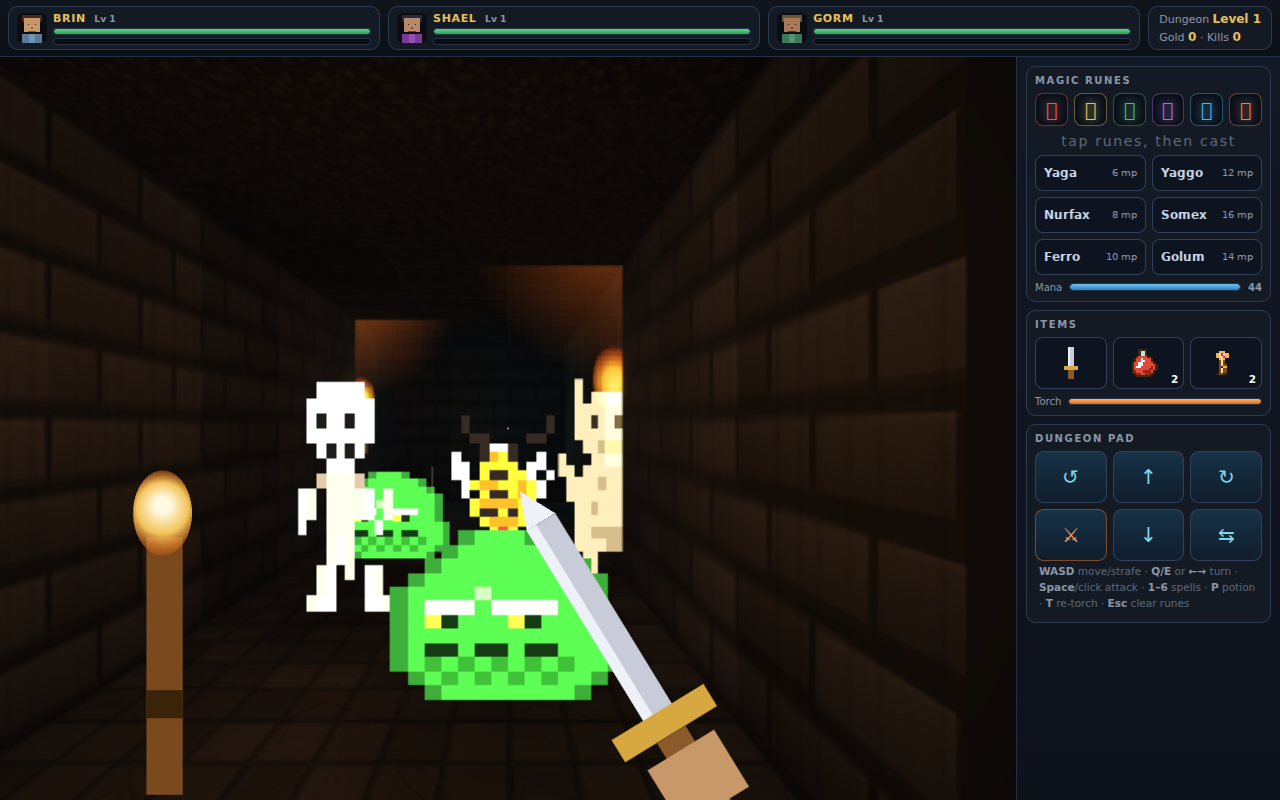
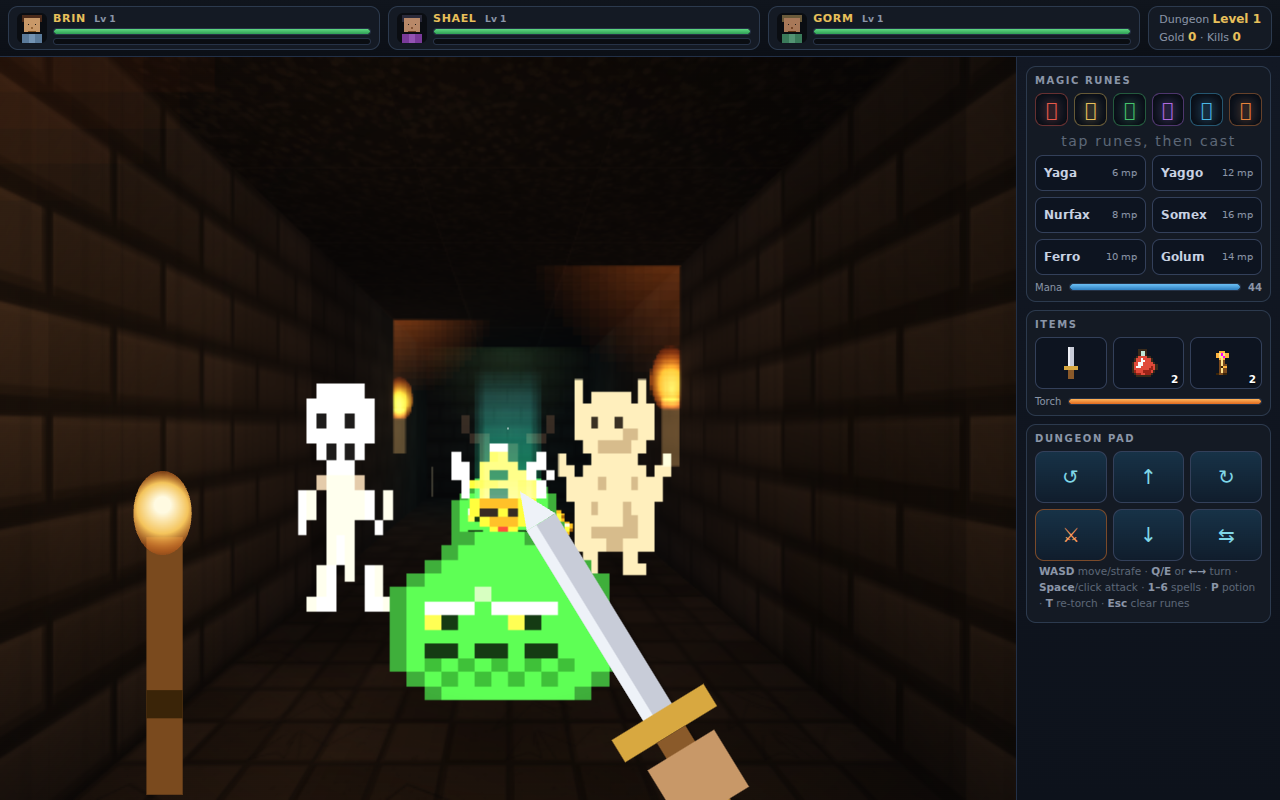
dungeonmaster: unify coordinate conventions — cells span [x-.5,x+.5] so entities, LOS, projectiles, gate and staged monsters now sit at cell centers (camera was half a cell off, clipping walls in 1-wide corridors); regenerated thumbnail

diff --git a/examples/dungeonmaster/index.html b/examples/dungeonmaster/index.html
@@ -752,7 +752,8 @@ function genLevel(d) {
   rooms.forEach((r, i) => { const dd = dist[cellIdx(r.cx, r.cy)]; if (dd > far) { far = dd; fi = i; } });
   stairsCell = cellIdx(rooms[fi].cx, rooms[fi].cy);
   grid[stairsCell] = STAIR;
-  /* torches on wall faces, spread out */
+  /* torches on wall faces, spread out — cell (x,y) spans [x-.5,x+.5], so the face
+     toward neighbour (x+dx,y+dy) sits at x+dx*.5 */
   torchers = [];
   const faces = [];
   for (let y = 1; y < GH - 1; y++) for (let x = 1; x < GW - 1; x++) {
@@ -1002,7 +1003,7 @@ function spawnMonsters(d) {
 function addMonster(kind, x, y, d) {
   const t = MON[kind], hpMul = 1 + .2 * (d - 1), dAdd = Math.floor(d / 2);
   const m = {
-    kind, t, x, y, mx: x + .5, my: y + .5, hp: Math.round(t.hp * hpMul), mhp: Math.round(t.hp * hpMul),
+    kind, t, x, y, mx: x, my: y, hp: Math.round(t.hp * hpMul), mhp: Math.round(t.hp * hpMul),
     spd: t.spd, at: 1 / t.spd + R(0, .5), mvp: null, alerted: false, flash: 0, frozen: 0, dying: false,
     hold: false, holdAt: 0,
     dmg: [t.dmg[0] + dAdd, t.dmg[1] + dAdd], xp: t.xp, bob: rnd() * 7,
@@ -1011,12 +1012,12 @@ function addMonster(kind, x, y, d) {
   return m;
 }
 
-/* LOS between float points */
+  /* LOS between float points; cells span [x-.5,x+.5] => nearest int is the cell */
 function los(x0, y0, x1, y1) {
   const dx = x1 - x0, dy = y1 - y0, n = Math.ceil(Math.hypot(dx, dy) * 4);
   for (let i = 1; i < n; i++) {
     const x = x0 + dx * i / n, y = y0 + dy * i / n;
-    if (at(Math.floor(x), Math.floor(y)) === WALL) return false;
+    if (at(Math.round(x), Math.round(y)) === WALL) return false;
   }
   return true;
 }
@@ -1377,7 +1378,7 @@ function newLevel(d) {
   spawnMonsters(d);
   projs = []; pickups = [];
   player.cellX = startCell % GW; player.cellY = (startCell / GW) | 0;
-  player.x = player.cellX + .5; player.y = player.cellY + .5;
+  player.x = player.cellX; player.y = player.cellY;
   /* face along a corridor */
   for (const [dx, dy] of [[1,0],[0,1],[-1,0],[0,-1]]) if (walkable(player.cellX + dx, player.cellY + dy)) { player.yaw = player.yawT = Math.atan2(dx, dy); break; }
   player.mv = null; player.turn = null;
@@ -1406,7 +1407,7 @@ function render(now) {
   /* gate light */
   if (tSorted.length < 9) {
     const i = tSorted.length;
-    lp[i * 3] = stairsCell % GW + .5; lp[i * 3 + 1] = 1.2; lp[i * 3 + 2] = ((stairsCell / GW) | 0) + .5;
+    lp[i * 3] = stairsCell % GW; lp[i * 3 + 1] = 1.2; lp[i * 3 + 2] = ((stairsCell / GW) | 0);
     lc[i * 4] = .35; lc[i * 4 + 1] = .85; lc[i * 4 + 2] = .8; lc[i * 4 + 3] = 5.2;
     tSorted.push({ t: { x: -9, y: -9, ph: 3 }, d: 0, gate: true });
     tSorted[i].gate = true;
@@ -1480,7 +1481,7 @@ function render(now) {
     drawSprite(pSpr, uS, t.hx, .95, t.hy, .16, .6, 'white', 0, .9, true);
   }
   {
-    const gx = stairsCell % GW + .5, gy2 = ((stairsCell / GW) | 0) + .5;
+    const gx = stairsCell % GW, gy2 = ((stairsCell / GW) | 0);
     const gd = Math.hypot(gx - player.x, gy2 - player.y);
     if (gd < 14) {
       const pulse = .7 + .3 * Math.sin(TIME * 2.2);
@@ -1677,11 +1678,11 @@ function update(dt) {
     const mv = player.mv;
     mv.t += dt / .18;
     const t2 = clamp(mv.t, 0, 1), e2 = t2 * t2 * (3 - 2 * t2);
-    player.x = mv.fx + .5 + (mv.tx - mv.fx) * e2;
-    player.y = mv.fy + .5 + (mv.ty - mv.fy) * e2;
+    player.x = mv.fx + (mv.tx - mv.fx) * e2;
+    player.y = mv.fy + (mv.ty - mv.fy) * e2;
     player.bob = Math.sin(t2 * Math.PI) * .06;
     if (t2 >= 1) {
-      player.mv = null; player.x = mv.tx + .5; player.y = mv.ty + .5; player.bob = 0;
+      player.mv = null; player.x = mv.tx; player.y = mv.ty; player.bob = 0;
       arrived();
     }
   }
@@ -1697,7 +1698,7 @@ function update(dt) {
       const t2 = clamp(m.mvp.t, 0, 1);
       m.mx = m.mvp.fx + (m.mvp.tx - m.mvp.fx) * t2;
       m.my = m.mvp.fy + (m.mvp.ty - m.mvp.fy) * t2;
-      if (t2 >= 1) { m.x = m.mvp.tx; m.y = m.mvp.ty; m.mx = m.x + .5; m.my = m.y + .5; m.mvp = null; }
+      if (t2 >= 1) { m.x = m.mvp.tx; m.y = m.mvp.ty; m.mx = m.x; m.my = m.y; m.mvp = null; }
     }
     m.at -= dt;
     if (m.at <= 0 && !m.mvp) {
@@ -1719,7 +1720,7 @@ function update(dt) {
             if (!walkable(nx, ny)) continue;
             if (nx === player.cellX && ny === player.cellY) continue;
             if (monsters.some(o => o !== m && !o.dying && !o.mvp && o.x === nx && o.y === ny)) continue;
-            const nd = Math.hypot(player.x - (nx + .5), player.y - (ny + .5));
+            const nd = Math.hypot(player.x - nx, player.y - ny);
             cands.push([nd, nx, ny]);
           }
           cands.sort((a, b2) => a[0] - b2[0] || rnd() - .5);
@@ -1736,7 +1737,7 @@ function update(dt) {
   for (const pr of projs) {
     pr.life -= dt;
     pr.x += pr.vx * dt; pr.y += pr.vz * dt;
-    if (at(Math.floor(pr.x), Math.floor(pr.y)) === WALL) { pr.life = 0; if (!pr.mine) sfx.boom(); continue; }
+    if (at(Math.round(pr.x), Math.round(pr.y)) === WALL) { pr.life = 0; if (!pr.mine) sfx.boom(); continue; }
     if (pr.mine) {
       for (const m of monsters) {
         if (m.dying) continue;
@@ -1789,12 +1790,12 @@ function stageShot() {
   grid[cellIdx(x + 8, y)] = STAIR; stairsCell = cellIdx(x + 8, y); /* glowing gate at the hall's end */
   buildGeometry();
   player.cellX = x; player.cellY = y;
-  player.x = x + .5; player.y = y + .5;
+  player.x = x; player.y = y;
   player.yaw = player.yawT = Math.PI / 2; /* face +x */
   torchers = [
-    { x: x + 1 + .5, y: y - 1.5, hx: x + 1 + .5, hy: y - 1.42, ph: 1.2 },
-    { x: x + 4 + .5, y: y + 1.5, hx: x + 4 + .5, hy: y + 1.42, ph: 3.9 },
-    { x: x + 6 + .5, y: y - 1.5, hx: x + 6 + .5, hy: y - 1.42, ph: 5.1 },
+    { x: x + 1, y: y - 1.5, hx: x + 1, hy: y - 1.42, ph: 1.2 },
+    { x: x + 4, y: y + 1.5, hx: x + 4, hy: y + 1.42, ph: 3.9 },
+    { x: x + 6, y: y - 1.5, hx: x + 6, hy: y - 1.42, ph: 5.1 },
   ];
   monsters = [];
   const mS = addMonster('skel', x + 7, y - 1, 1); mS.alerted = true; mS.hold = true; mS.holdAt = 3.4;
@@ -1841,8 +1842,35 @@ window.__dm = {
     if (o && typeof o.yaw === 'number') player.yaw = player.yawT = o.yaw;
     if (o && o.pos) {
       player.x = o.pos[0]; player.y = o.pos[1];
-      player.cellX = Math.floor(o.pos[0]); player.cellY = Math.floor(o.pos[1]);
+      player.cellX = Math.round(o.pos[0]); player.cellY = Math.round(o.pos[1]);
       player.mv = null; player.turn = null;
+    }
+    if (o && o.fbox) {
+      const [bx0, by0, bx1, by1] = o.fbox;
+      const out = [];
+      for (let cy = by0; cy <= by1; cy++) for (let cx = bx0; cx <= bx1; cx++) {
+        if (grid[cellIdx(cx, cy)] === WALL) continue;
+        if (at(cx - 1, cy) === WALL) out.push(`cell(${cx},${cy}) faceX plane=${cx - .5} normal+X`);
+        if (at(cx + 1, cy) === WALL) out.push(`cell(${cx},${cy}) faceX plane=${cx + .5} normal-X`);
+        if (at(cx, cy - 1) === WALL) out.push(`cell(${cx},${cy}) faceZ plane=${cy - .5} normal+Z`);
+        if (at(cx, cy + 1) === WALL) out.push(`cell(${cx},${cy}) faceZ plane=${cy + .5} normal-Z`);
+      }
+      return out;
+    }
+    if (o && o.map) {
+      const rows = [];
+      for (let cy = 0; cy < GH; cy++) {
+        let r = '';
+        for (let cx = 0; cx < GW; cx++) {
+          let ch = grid[cellIdx(cx, cy)] === WALL ? '#' : grid[cellIdx(cx, cy)] === STAIR ? '>' : '.';
+          if (cx === player.cellX && cy === player.cellY) ch = '@';
+          if (torchers.some(t => Math.abs(t.x - cx) < .6 && Math.abs(t.y - cy) < .6)) ch = 'T';
+          if (monsters.some(m => m.x === cx && m.y === cy)) ch = 'M';
+          r += ch;
+        }
+        rows.push(r);
+      }
+      return rows;
     }
     const around = [];
     for (let cy = player.cellY - 2; cy <= player.cellY + 2; cy++) {
